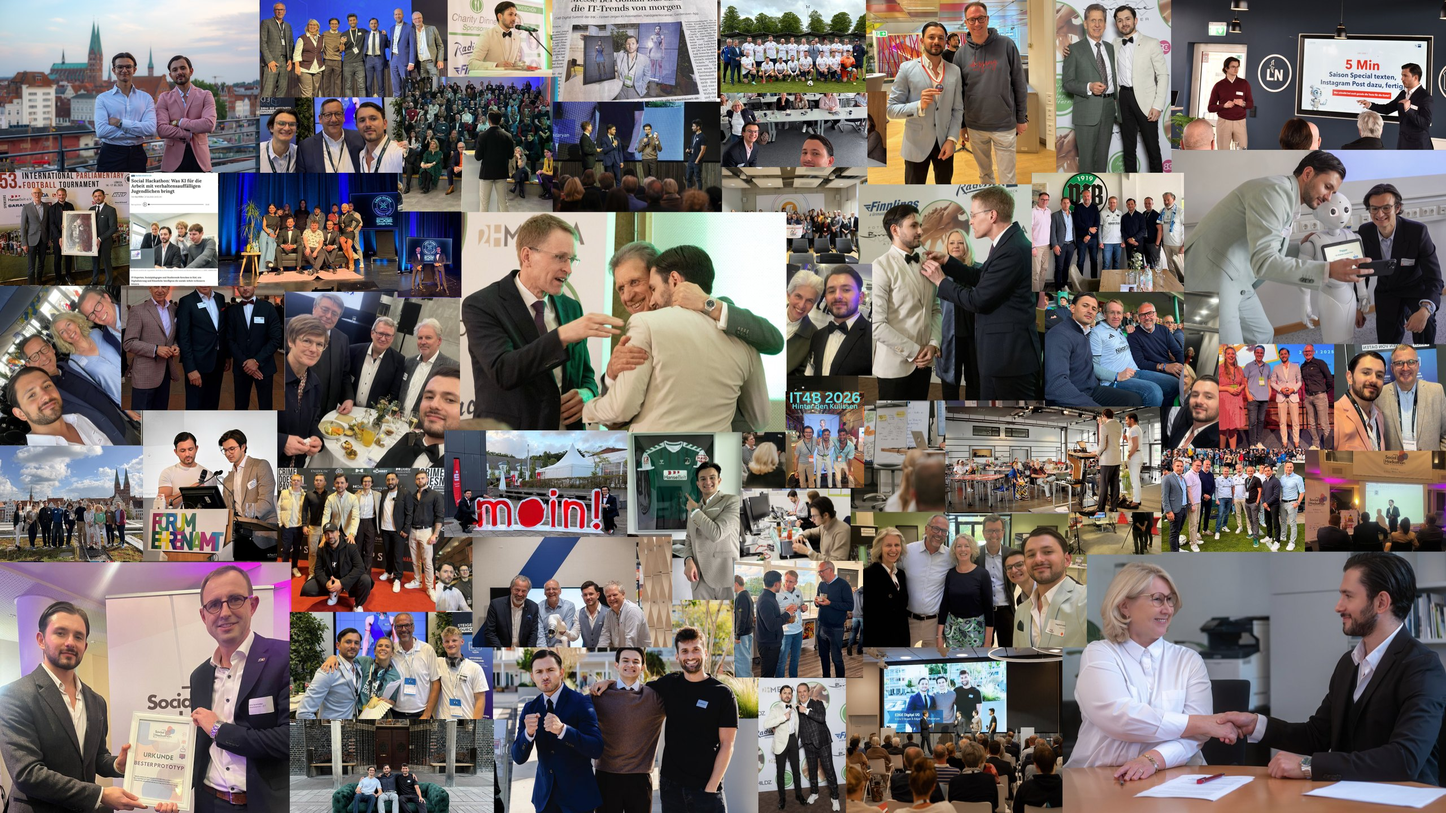
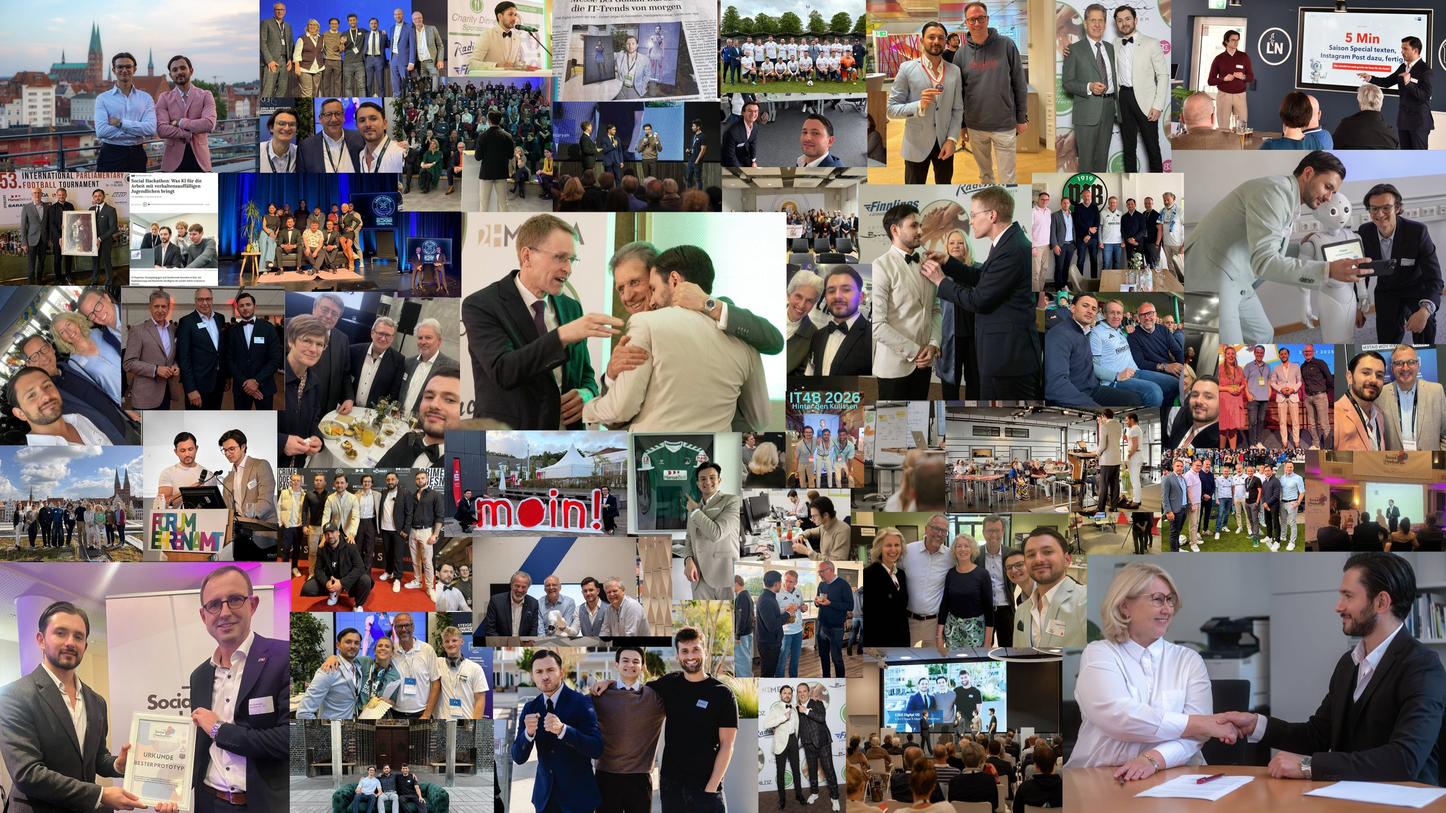
fix: reframe IHK talk, uncut heads in two collage inserts, more room above trio

diff --git a/werkzeuge/collage.py b/werkzeuge/collage.py
@@ -21,7 +21,7 @@ ZIEL = HIER.parent.parent / "assets/collage/collage.jpg"
 EINSAETZE = [
     # Eigene Fotos 2025 und 2026
     ("18.jpg",                     0,   0,  345,  229, .40),                 # EDGE über Lübeck (statt Türfoto)
-    ("16.jpg",                  1555,   0, 1920,  199, (0, .45, 1, .815)),   # unser IHK Kneipentalk: Querstreifen mit beiden und Leinwand
+    ("16.jpg",                  1555,   0, 1920,  199, (0, .515, 1, .88)),   # unser IHK Kneipentalk: Querstreifen mit beiden und Leinwand
     ("15.jpg",                   190, 545,  368,  745, .30),                 # Forum Ehrenamt am Pult
     ("21.jpg",                     0, 592,  190,  745, .55),                 # Lübeck.Lokal auf dem Dach
     ("12.jpg",                  1255, 540, 1542,  680, .45),                 # Vortrag vor vollem Saal (endet über den Köpfen der Frauengruppe)
@@ -34,12 +34,12 @@ EINSAETZE = [
     ("li-lachclash-gruppe.jpg",  290, 230,  528,  388, .50),
     ("li-lachclash-duo.jpg",     528, 281,  613,  395, .55),
     ("li-moin.jpg",              590, 572,  833,  713, .60),
-    ("li-roboter-gruppe.jpg",    627, 713,  893,  860, .42),
+    ("li-roboter-gruppe.jpg",    627, 713,  893,  845, .40),
     ("li-it4b.jpg",             1043, 520, 1147,  648, .45),
     ("li-fussball-team.jpg",     957,   0, 1150,  124, .50),
     ("li-fussball-bild.jpg",       0, 229,  172,  379, .45),
-    ("li-anzug-trio.jpg",        161, 380,  378,  545, .28),
-    ("li-workshop-selfie.jpg",   957, 124, 1152,  222, .72),
+    ("li-anzug-trio.jpg",        161, 380,  378,  545, .0),
+    ("li-workshop-selfie.jpg",   957, 124, 1152,  222, 1.0),
 ]
 
 basis = Image.open(HIER / "basis.png").convert("RGB"); W, H = basis.size
